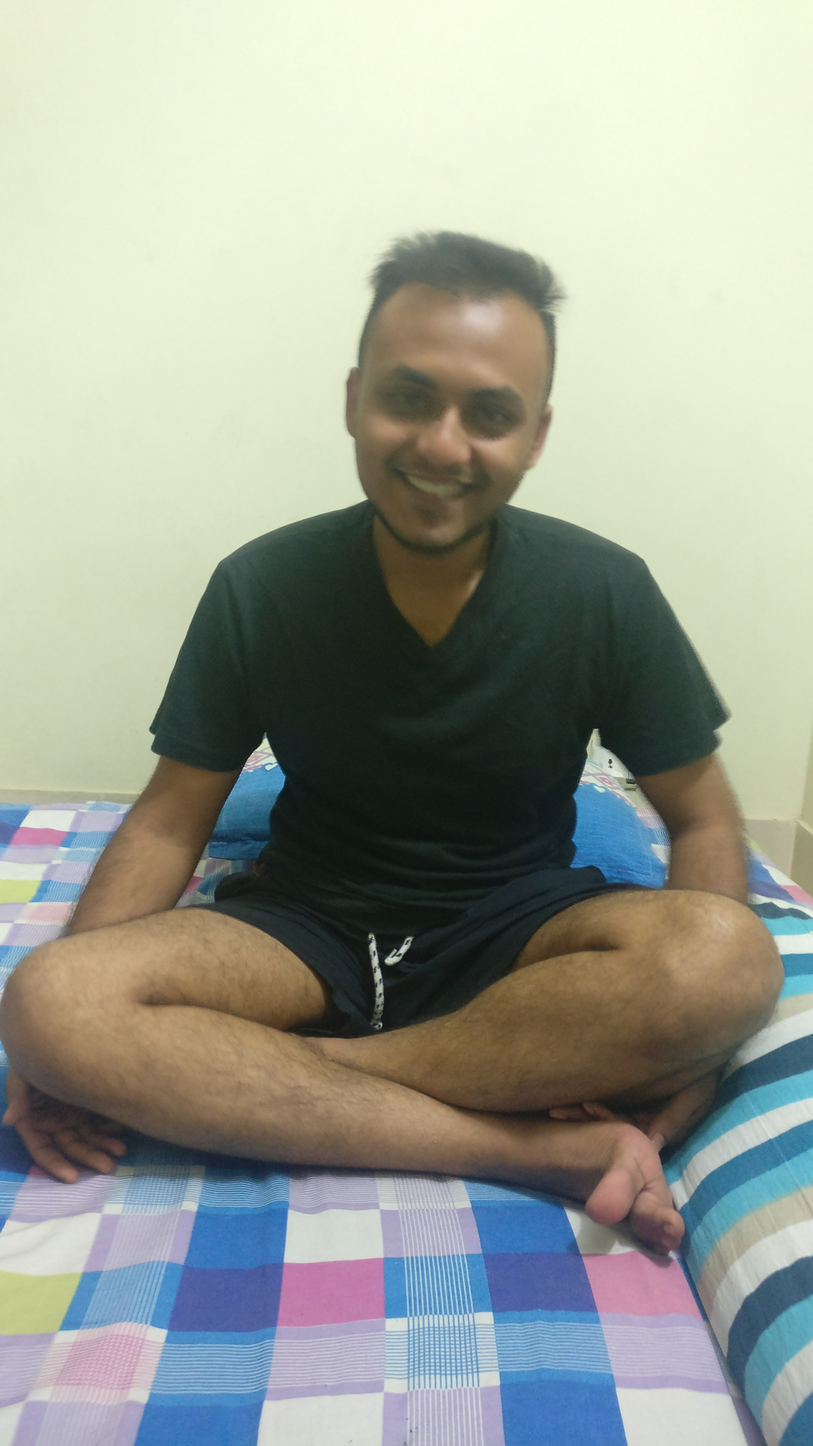
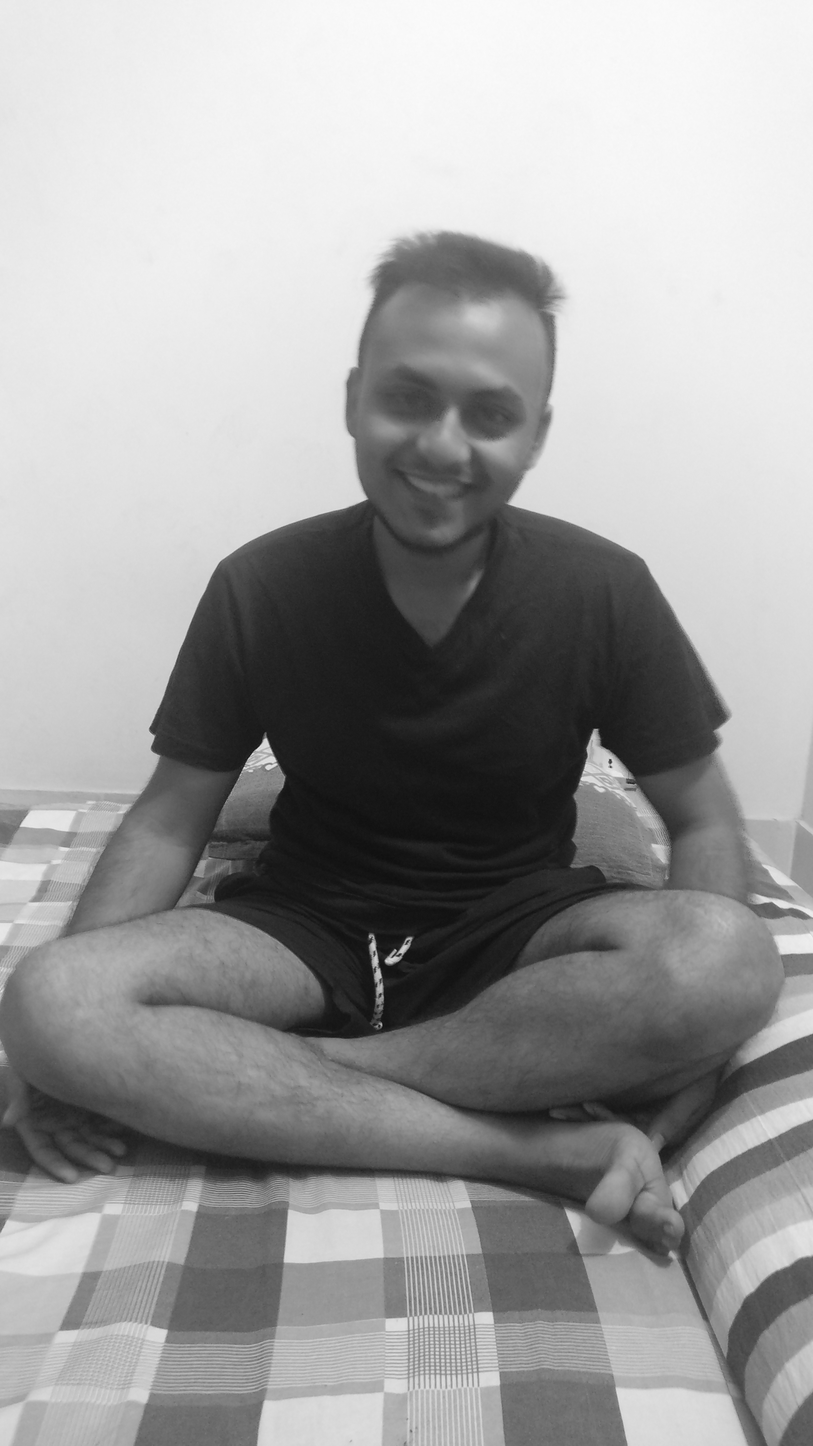
1st day

diff --git a/convertToGrayScale.py b/convertToGrayScale.py
@@ -1,0 +1,25 @@
+
+import os
+import numpy as np
+import cv2
+
+""" 
+Renames the filenames within the same directory to be Unix friendly
+(1) Changes spaces to hyphens
+(2) Makes lowercase (not a Unix requirement, just looks better ;)
+Usage:
+python rename.py
+"""
+
+path =  os.getcwd()
+filenames = os.listdir(path)
+i=0
+for filename in filenames:
+	if filename[len(filename)-3:]=='jpg':
+		print (filename)
+		img = cv2.imread('t.jpg',0)
+		cv2.imwrite(filename,img)
+		print ('Done')
+		# i=i+1
+		# os.rename(filename,str(i) + '.jpg')
+		# print (filename[len(filename)-3:])

diff --git a/drawMouseCoursor.py b/drawMouseCoursor.py
@@ -9,7 +9,7 @@ import numpy as np
 def draw_circle(event,x,y,flags,param):
     if event == cv2.EVENT_LBUTTONDBLCLK:
         cv2.circle(img,(x,y),100,(255,0,0),-1)
-        print (event,x,y,flags,param)
+        # print (event,x,y,flags,param)
 
 # Create a black image, a window and bind the function to window
 img = np.zeros((512,512,3), np.uint8)
